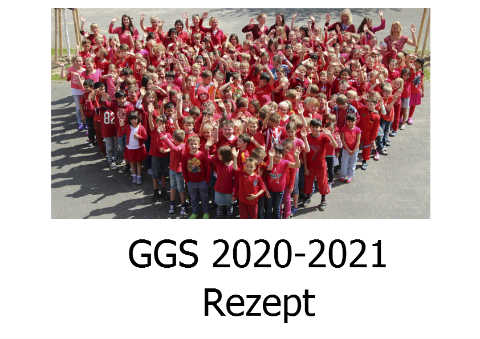
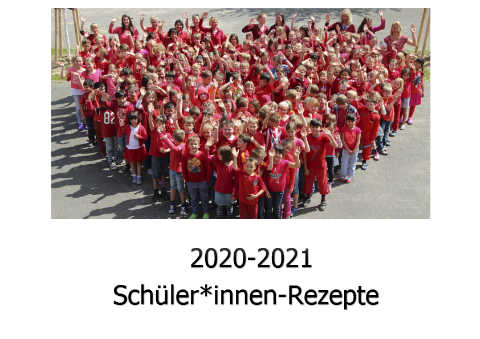
first versun 2

Changed region(s): [[0.2188, 0.826, 0.8125, 0.944], [0.25, 0.708, 0.8125, 0.7965]]

diff --git a/mobile/javascript/config.js b/mobile/javascript/config.js
@@ -136,7 +136,7 @@ btnTableOfContent:["btnBookMark"]
 };
 	
 	
-	;bookConfig.BookTemplateName="classical";bookConfig.loadingCaptionFontSize="20";bookConfig.loadingCaptionColor="#DDDDDD";bookConfig.loadingBackground="#323232";bookConfig.loadingPictureHeight="150";bookConfig.showLoadingGif="Yes";bookConfig.loadingDisplayTime="0";bookConfig.appLogoOpenWindow="Blank";bookConfig.logoHeight="40";bookConfig.logoPadding="0";bookConfig.logoTop="0";bookConfig.toolbarColor="#000000";bookConfig.iconColor="#ECF5FB";bookConfig.pageNumColor="#000000";bookConfig.iconFontColor="#C6C6C6";bookConfig.toolbarAlwaysShow="No";bookConfig.ToolBarVisible="Yes";bookConfig.formFontColor="#FFFFFF";bookConfig.formBackgroundColor="#27181A";bookConfig.ToolBarAlpha="1";bookConfig.CurlingPageCorner="Yes";bookConfig.showBookInstructionOnStart="false";bookConfig.InstructionsButtonVisible="Show";bookConfig.showInstructionOnStart="No";bookConfig.showGotoButtonsAtFirst="No";bookConfig.QRCode="Hide";bookConfig.HomeButtonVisible="Hide";bookConfig.HomeURL="%first page%";bookConfig.aboutButtonVisible="Hide";bookConfig.enablePageBack="Show";bookConfig.ShareButtonVisible="Show";shareObj = [];bookConfig.addCurrentPage="No";bookConfig.EmailButtonVisible="Show";bookConfig.btnShareWithEmailBody="{link}";bookConfig.ThumbnailsButtonVisible="Show";bookConfig.thumbnailColor="#333333";bookConfig.thumbnailAlpha="70";bookConfig.ThumbnailSize="small";bookConfig.BookMarkButtonVisible="Hide";bookConfig.TableOfContentButtonVisible="Show";bookConfig.isHideTabelOfContentNodes="yes";bookConfig.SearchButtonVisible="Hide";bookConfig.leastSearchChar="3";bookConfig.searchKeywordFontColor="#FFB000";bookConfig.searchHightlightColor="#ffff00";bookConfig.SelectTextButtonVisible="Show";bookConfig.PrintButtonVisible="Hide";bookConfig.BackgroundSoundButtonVisible="Show";bookConfig.FlipSound="Yes";bookConfig.BackgroundSoundLoop="-1";bookConfig.bgSoundVol="50";bookConfig.AutoPlayButtonVisible="Show";bookConfig.autoPlayAutoStart="No";bookConfig.autoPlayDuration="9";bookConfig.autoPlayLoopCount="1";bookConfig.ZoomButtonVisible="Show";bookConfig.maxZoomWidth="1400";bookConfig.defaultZoomWidth="1000";bookConfig.mouseWheelFlip="Yes";bookConfig.ZoomMapVisible="Hide";bookConfig.DownloadButtonVisible="Hide";bookConfig.PhoneButtonVisible="Hide";bookConfig.AnnotationButtonVisible="Hide";bookConfig.FullscreenButtonVisible="Show";bookConfig.MagnifierButtonVisible="Hide";bookConfig.bgBeginColor="#E2E2E2";bookConfig.bgEndColor="#E2E2E2";bookConfig.bgMRotation="90";bookConfig.backGroundImgURL="../files/mobile-ext/backGroundImgURL.jpg";bookConfig.backgroundPosition="stretch";bookConfig.backgroundOpacity="100";bookConfig.backgroundScene="None";bookConfig.LeftShadowWidth="90";bookConfig.LeftShadowAlpha="0.6";bookConfig.RightShadowWidth="55";bookConfig.RightShadowAlpha="0.6";bookConfig.ShowTopLeftShadow="Yes";bookConfig.pageHighlightType="magazine";bookConfig.HardPageEnable="No";bookConfig.hardCoverBorderWidth="8";bookConfig.borderColor="#572F0D";bookConfig.outerCoverBorder="Yes";bookConfig.cornerRound="8";bookConfig.leftMarginOnMobile="0";bookConfig.topMarginOnMobile="0";bookConfig.rightMarginOnMobile="0";bookConfig.bottomMarginOnMobile="0";bookConfig.pageBackgroundColor="#E8E8E8";bookConfig.flipshortcutbutton="Show";bookConfig.phoneFlipShortcutButton="Hide";bookConfig.BindingType="side";bookConfig.RightToLeft="No";bookConfig.FlipDirection="0";bookConfig.flippingTime="0.6";bookConfig.retainBookCenter="Yes";bookConfig.FlipStyle="Flip";bookConfig.autoDoublePage="Yes";bookConfig.isTheBookOpen="No";bookConfig.DoubleSinglePageButtonVisible="hide";bookConfig.thicknessWidthType="Thinner";bookConfig.thicknessColor="#ffffff";bookConfig.SingleModeBanFlipToLastPage="No";bookConfig.showThicknessOnMobile="No";bookConfig.isSingleBookFullWindowOnMobile="no";bookConfig.isStopMouseMenu="yes";bookConfig.restorePageVisible="No";bookConfig.topMargin="10";bookConfig.bottomMargin="10";bookConfig.leftMargin="10";bookConfig.rightMargin="10";bookConfig.hideMiniFullscreen="no";bookConfig.maxWidthToSmallMode="400";bookConfig.maxHeightToSmallMode="300";bookConfig.leftRightPnlShowOption="None";bookConfig.highDefinitionConversion="yes";bookConfig.LargeLogoPosition="top-left";bookConfig.LargeLogoTarget="Blank";bookConfig.isFixLogoSize="No";bookConfig.logoFixWidth="0";bookConfig.logoFixHeight="0";bookConfig.SupportOperatePageZoom="Yes";bookConfig.showHelpContentAtFirst="No";bookConfig.updateURLForPage="No";bookConfig.passwordTips="Please contact the <a href=mailto:author@sample.com><u>author</u></a> to access the web";bookConfig.OnlyOpenInIframe="No";bookConfig.OnlyOpenInIframeInfo="No reading rights";bookConfig.OpenWindow="Blank";bookConfig.showLinkHint="No";bookConfig.MidBgColor="#571262";bookConfig.useTheAliCloudChart ="no";bookConfig.totalPageCount=8;bookConfig.largePageWidth=1800;bookConfig.largePageHeight=1273;;bookConfig.securityType="1";bookConfig.CreatedTime ="210302230519";bookConfig.bookTitle="Rezept";bookConfig.bookmarkCR="5b09e8a89cffc3779d3c20c467bdfcd5ddfc4422";bookConfig.productName="Flip PDF Professional";bookConfig.homePage="http://www.flipbuilder.com";bookConfig.searchPositionJS="javascript/text_position[1].js";bookConfig.searchTextJS="javascript/search_config.js";bookConfig.normalPath="../files/mobile/";bookConfig.largePath="../files/mobile/";bookConfig.thumbPath="../files/thumb/";bookConfig.userListPath="../files/extfiles/users.js";var language = [{ language : "English",btnFirstPage:"First",btnNextPage:"Next Page",btnLastPage:"Last",btnPrePage:"Previous Page",btnDownload:"Download",btnPrint:"Print",btnSearch:"Search",btnClearSearch:"Clear",frmSearchPrompt:"Clear",btnBookMark:"Table of contents",btnHelp:"Help",btnHome:"Home",btnFullScreen:"Enable FullScreen",btnDisableFullScreen:"Disable FullScreen",btnSoundOn:"Sound On",btnSoundOff:"Sound Off",btnShareEmail:"Share",btnSocialShare:"Social Share",btnZoomIn:"Zoom In",btnZoomOut:"Zoom Out",btnDragToMove:"Move by mouse drag",btnAutoFlip:"Auto Flip",btnStopAutoFlip:"Stop Auto Flip",btnGoToHome:"Return Home",frmHelpCaption:"Help",frmHelpTip1:"Double click to zoom in or out",frmHelpTip2:"Drag the page corner to view",frmPrintCaption:"Print",frmPrintBtnCaption:"Print",frmPrintPrintAll:"Print All Pages",frmPrintPrintCurrentPage:"Print Current Page",frmPrintPrintRange:"Print Range",frmPrintExampleCaption:"Example: 2,5,8-26",frmPrintPreparePage:"Preparing Page:",frmPrintPrintFailed:"Print Failed:",pnlSearchInputInvalid:"(Minimal request length is 3 symbols)",loginCaption:"Login",loginInvalidPassword:"Not a valid password!",loginPasswordLabel:"Password:",loginBtnLogin:"Login",loginBtnCancel:"Cancel",btnThumb:"Thumbnails",lblPages:"Pages:",lblPagesFound:"Pages:",lblPageIndex:"Page",btnAbout:"About",frnAboutCaption:"About & Contact",btnSinglePage:"Single Page",btnDoublePage:"Double Page",btnSwicthLanguage:"Switch Language",tipChangeLanguage:"Please select a language below...",btnMoreOptionsLeft:"More Options",btnMoreOptionsRight:"More Options",btnFit:"Fit Window",smallModeCaption:"Click to view in fullscreen",btnAddAnnotation:"Add Annotations",btnAnnotation:"Annotations",FlipPageEditor_SaveAndExit:"Save and Exit",FlipPageEditor_Exit:"Exit",DrawToolWindow_Redo:"Redo",DrawToolWindow_Undo:"Undo",DrawToolWindow_Clear:"Clear",DrawToolWindow_Brush:"Brush",DrawToolWindow_Width:"Width",DrawToolWindow_Alpha:"Alpha",DrawToolWindow_Color:"Color",DrawToolWindow_Eraser:"Eraser",DrawToolWindow_Rectangular:"Rectangular",DrawToolWindow_Ellipse:"Ellipse",TStuff_BorderWidth:"Border Width",TStuff_BorderAlph:"Border Alpha",TStuff_BorderColor:"Border Color",DrawToolWindow_TextNote:"Text Note",AnnotMark:"Bookmarks",lastpagebtnHelp:"Last page",firstpagebtnHelp:"First page",homebtnHelp:"Return to home page",aboubtnHelp:"About",screenbtnHelp:"Open this application in full-screen mode",helpbtnHelp:"Show help",searchbtnHelp:"Search from pages",pagesbtnHelp:"Take a look at the thumbnail of this brochure",bookmarkbtnHelp:"Open Bookmarks",AnnotmarkbtnHelp:"Open Table of contents",printbtnHelp:"Print the brochure",soundbtnHelp:"Turn on or off the sound",sharebtnHelp:"Send Email to",socialSharebtnHelp:"Social Share",zoominbtnHelp:"Zoom in",downloadbtnHelp:"Downdlaod this brochure",pagemodlebtnHelp:"Switch Single and double page mode",languagebtnHelp:"Switch Lauguage",annotationbtnHelp:"Add Annotation",addbookmarkbtnHelp:"Add Bookmark",removebookmarkbtnHelp:"Remove Bookmark",updatebookmarkbtnHelp:"Update Bookmark",btnShoppingCart:"Shopping Cart",Help_ShoppingCartbtn:"Shopping Cart",Help_btnNextPage:"Next page",Help_btnPrePage:"Previous page",Help_btnAutoFlip:"Auto filp",Help_StopAutoFlip:"Stop atuo filp",btnaddbookmark:"Add",btndeletebookmark:"Delete",btnupdatebookmark:"Update",frmyourbookmarks:"Your bookmarks",frmitems:"items",DownloadFullPublication:"Full Publication",DownloadCurrentPage:"Current Page",DownloadAttachedFiles:"Attached Files",lblLink:"Link",btnCopy:"Copy Button",infCopyToClipboard:"Your browser does not support clipboard.",restorePage:"Would you like to restore previous session",tmpl_Backgoundsoundon:"Background Sound On",tmpl_Backgoundsoundoff:"Background Sound Off",tmpl_Flipsoundon:"Flip Sound On",tmpl_Flipsoundoff:"Flip Sound Off",Help_PageIndex:"The current page number",tmpl_PrintPageRanges:"PAGE RANGES",tmpl_PrintPreview:"PREVIEW",btnSelection:"Select Text",loginNameLabel:"Name:",btnGotoPage:"	Go",btnSettings:"Setting",soundSettingTitle:"Sound Setting",closeFlipSound:"Close Flip Sound",closeBackgroundSound:"Close Backgorund Sound",frmShareCaption:"Share",frmShareLinkLabel:"Link:",frmShareBtnCopy:"Copy",frmShareItemsGroupCaption:"Social Share",frmPanelTitle:"Share it",frmShareQRcode:"QRCode",TAnnoActionPropertyStuff_GotoPage:"Go to page",btnPageBack:"Backward",btnPageForward:"Forward",SelectTextCopy:"Copy Selected Text",selectCopyButton:"Copy",TStuffCart_TypeCart:"Shopping Cart",TStuffCart_DetailedQuantity:"Quantity",TStuffCart_DetailedPrice:"Price",ShappingCart_Close:"Close",ShappingCart_CheckOut:"Checkout",ShappingCart_Item:"Item",ShappingCart_Total:"Total",ShappingCart_AddCart:"Add to cart",ShappingCart_InStock:"In Stock",TStuffCart_DetailedCost:"Shipping cost",TStuffCart_DetailedTime:"Delivery time",TStuffCart_DetailedDay:"day(s)",ShappingCart_NotStock:"Not enough in stock",btnCrop:"Crop",btnDragButton:"Drag",btnFlipBook:"Flip Book",btnSlideMode:"Slide Mode",btnSinglePageMode:"Single Page Mode",btnVertical:"Vertical Mode",btnHotizontal:"Horizontal Mode",btnClose:"Close",btnDoublePage:"Double Page",btnBookStatus:"Book View",checkBoxInsert:"Insert Current Page",lblLast:"This is the last page.",lblFirst:"This is the first page.",lblFullscreen:"Click to view in fullscreen",lblName:"Name",lblPassword:"Password",lblLogin:"Login",lblCancel:"Cancel",lblNoName:"User name can not be empty.",lblNoPassword:"Password can not be empty.",lblNoCorrectLogin:"Please enter the correct user name and password.",btnVideo:"Video Gallery",btnSlideShow:"Slide Show",pnlSearchInputInvalid:"(Minimal request length is 3 symbols)",btnDragToMove:"Move by mouse drag",btnPositionToMove:"Move by mouse position",lblHelp1:"Drag the page corner to view",lblHelp2:"Double click to zoom in, out",lblCopy:"Copy",lblAddToPage:"add to page",lblPage:"Page",lblTitle:"Title",lblEdit:"Edit",lblDelete:"Delete",lblRemoveAll:"Remove All",tltCursor:"cursor",tltAddHighlight:"add highlight",tltAddTexts:"add texts",tltAddShapes:"add shapes",tltAddNotes:"add notes",tltAddImageFile:"add image file",tltAddSignature:"add signature",tltAddLine:"add line",tltAddArrow:"add arrow",tltAddRect:"add rect",tltAddEllipse:"add ellipse",lblDoubleClickToZoomIn:"Double click to zoom in.",frmShareCaption:"Share",frmShareLabel:"Share",frmShareInfo:"You can easily share this publication to social networks.Just cilck the appropriate button below.",frminsertLabel:"Insert to Site",frminsertInfo:"Use the code below to embed this publication to your website.",btnQRCode:"Click to scan QR code",btnRotateLeft:"Rotate Left",btnRotateRight:"Rotate Right",lblSelectMode:"Select view mode please.",frmDownloadPreview:"Preview",frmDownload:"Download",frmHowToUse:"How To Use",lblHelpPage1:"Move your finger to flip the book page.",lblHelpPage2:"Zoom in by using gesture or double click on the page.",lblHelpPage3:"Click on the logo to reach the official website of the company.",lblHelpPage4:"Add bookmarks, use search function and auto flip the book.",lblHelpPage5:"Switch horizontal and vertical view on mobile devices.",TTActionQuiz_PlayAgain:"Do you wanna play it again",TTActionQuiz_Ration:"Your ratio is",frmTelephone:"Telephone list",btnDialing:"Dialing",lblSelectMessage:"Please copy the the text content in the text box",btnSelectText:"Select Text",btnNote:"Annotation",btnPhoneNumber:"Telephone",btnWeCharShare:"WeChat Share",btnMagnifierIn:"Magnifying Glass",btnMagnifierOut:"Magnifier Reduction",frmShareSmallProgram:"smallProgram",btnMagnifier:"Magnifier",frmPrintPrintLimitFailed:"Sorry, you can't print the pages.",infNotSupportHtml5:"HTML5 is not supported by your current web browser, please read the book with latest verson web browser. Here we recommend you to read it with Chrome.",btnReport:"Report",btnDoubleSinglePage:"Page switch",btnDownloadPosterPrompt:"Click to download the poster",infLongPressToSavePoster:"Press and hold the mobile terminal to save the poster",infLongPressToIndentify:"Long press to identify QR code",infScanCodeToView:"Scan code to read",frmaboutcaption:"Contact",frmaboutDESCRIPTION:"Description",frmaboutAUTHOR:"Author",frmaboutADDRESS:"Address",frmaboutEMAIL:"Email",frmaboutWEBSITE:"Website",frmaboutMOBILE:"Mobile",infDeleteNote:"Do you want to delete the note?",proFullScreenWarn:"Current browser does not support full-screen,Please use Chrome for best results",btnBack:"Backs",frmVideoListTitle:"Video list",frmVideoTitle:"Video",lblConfirm:"Confirm",frmBookMark:"Bookmark",btnFullscreen:"Fullscreen",btnExitFullscreen:"Exit Fullscreen",btnMore:"More",frmPrintall:"Print All Pages",frmPrintcurrent:"Print Current Page",frmPrintRange:"Print Range",frmPrintexample:"Example: 2,3,5-10",frmPrintbtn:"Print",frmaboutcontactinformation:"Contact Information",frmSearch:"Search",frmToc:"Table Of Contents",btnTableOfContent:"Table Of Contents",lblDescription:"Title",frmLinkLabel:"Link",frmQrcodeCaption:"Scan the bottom two-dimensional code to view with mobile phone."}];;function orgt(s){ return binl2hex(core_hx(str2binl(s), s.length * chrsz));};; var pageEditor = {"setting":{"annoPlaying":"true","shoppingCartHTML":"false","shoppingCartOptinon":{"type":"PayPal","paypal":"","method":"POST","sandbox":"false","address":"","theme":"","body":"Hi xxx     I'm going to buy below product(s):      ${shopping}  Full Name","showPrice":"true","showTime":"true"}}, "pageAnnos":[[{"annotype":"com.mobiano.flipbook.pageeditor.TAnnoImage","annoId":"20212231291530","alpha":"1","mouseOverEffect":"2","borderColor":"16737792","Gifview":"-1","imgOriginalProportions":"true","imgScaleType":"false","location":{"tannoName":"image1","x":"0.047510452299505894","y":"0.025196532957065105","width":"0.9081622957050551","height":"0.6183229187663777","rotation":"0","reflection":"false","reflectionType":"0","reflectionAlpha":"0","pageWidth":"841.92","pageHeight":"595.32"},"hint":{"hintShapeColor":"0","hintShapeColor2":"8388736","hintShapeAlpha":"1","hintW":"0","hintH":"0","hintAuto":"true","hintShapeType":"2","text":""},"shadow":{"hasDropShadow":"false","shadowDistance":"4","shadowAngle":"270","shadowColor":"0","shadowAlpha":"0.6","shadowBlurX":"4","shadowBlurY":"4"},"highlightsBool":"false","imgPosition":"","popUpImage":"false","frame":"frame0","colorMatrix":"original","imgScale":"1","imgRotation":"0","imgContX":"0","imgContY":"0","imgOriginalWidth":"2000","imgOriginalHeight":"1108","url":"./files/pageConfig/ggs.png","originalURL":"./files/pageConfig/ggs.png","effect":{"effectType":"","triggerAction":"Note","duration":"1","position":"left"}},{"annotype":"com.mobiano.flipbook.pageeditor::TAnnoText","annoId":"20212231298923","alpha":"1","location":{"tannoName":"text1","x":"0.14728240212846827","y":"0.6735873143855405","width":"0.7813687761307488","height":"0.33099845461264527","rotation":"0","reflection":"false","reflectionType":"0","reflectionAlpha":"0","pageWidth":"841.92","pageHeight":"595.32"},"hint":{"hintShapeColor":"0","hintShapeColor2":"8388736","hintShapeAlpha":"1","hintW":"0","hintH":"0","hintAuto":"true","hintShapeType":"2","text":""},"shadow":{"hasDropShadow":"false","shadowDistance":"4","shadowAngle":"270","shadowColor":"0","shadowAlpha":"0.6","shadowBlurX":"4","shadowBlurY":"4"},"highlightsBool":"false","selectable":"false","auto":"false","textStr":"<TEXTFORMAT LEADING=\"5\"><P ALIGN=\"CENTER\"><FONT FACE=\"Tahoma,Arial,Verdana\" SIZE=\"66\" COLOR=\"#000000\" LETTERSPACING=\"0\" KERNING=\"0\">GGS 2020-2021</FONT></P></TEXTFORMAT><TEXTFORMAT LEADING=\"5\"><P ALIGN=\"CENTER\"><FONT FACE=\"Tahoma,Arial,Verdana\" SIZE=\"66\" COLOR=\"#000000\" LETTERSPACING=\"0\" KERNING=\"0\">Rezept</FONT></P></TEXTFORMAT>","lineHeightRation":"0.045696999999999995","formats":{"defaultFormat":{"htmlText":"<TEXTFORMAT LEADING=\"5\"><P ALIGN=\"CENTER\"><FONT FACE=\"Tahoma,Arial,Verdana\" SIZE=\"66\" COLOR=\"#000000\" LETTERSPACING=\"0\" KERNING=\"0\">GGS 2020-2021</FONT></P></TEXTFORMAT><TEXTFORMAT LEADING=\"5\"><P ALIGN=\"CENTER\"><FONT FACE=\"Tahoma,Arial,Verdana\" SIZE=\"66\" COLOR=\"#000000\" LETTERSPACING=\"0\" KERNING=\"0\">Rezept</FONT></P></TEXTFORMAT>","pageH":"595.32","pageW":"841.92"}},"background":{"alpha":"0.7","fillBg":"false","color":"16777215"}}],[],[],[],[],[],[],[]]}; bookConfig.isFlipPdf=true; var pages_information =[{pageColor:"16777215",pageIsStrech:"no"},{pageColor:"16777215",pageIsStrech:"no"},{pageColor:"16777215",pageIsStrech:"no"},{pageColor:"16777215",pageIsStrech:"no"},{pageColor:"16777215",pageIsStrech:"no"},{pageColor:"16777215",pageIsStrech:"no"},{pageColor:"16777215",pageIsStrech:"no"},{pageColor:"16777215",pageIsStrech:"no"}];	
+	;bookConfig.BookTemplateName="classical";bookConfig.loadingCaptionFontSize="20";bookConfig.loadingCaptionColor="#DDDDDD";bookConfig.loadingBackground="#323232";bookConfig.loadingPictureHeight="150";bookConfig.showLoadingGif="Yes";bookConfig.loadingDisplayTime="0";bookConfig.appLogoOpenWindow="Blank";bookConfig.logoHeight="40";bookConfig.logoPadding="0";bookConfig.logoTop="0";bookConfig.toolbarColor="#000000";bookConfig.iconColor="#ECF5FB";bookConfig.pageNumColor="#000000";bookConfig.iconFontColor="#C6C6C6";bookConfig.toolbarAlwaysShow="No";bookConfig.ToolBarVisible="Yes";bookConfig.formFontColor="#FFFFFF";bookConfig.formBackgroundColor="#27181A";bookConfig.ToolBarAlpha="1";bookConfig.CurlingPageCorner="Yes";bookConfig.showBookInstructionOnStart="false";bookConfig.InstructionsButtonVisible="Show";bookConfig.showInstructionOnStart="No";bookConfig.showGotoButtonsAtFirst="No";bookConfig.QRCode="Hide";bookConfig.HomeButtonVisible="Hide";bookConfig.HomeURL="%first page%";bookConfig.aboutButtonVisible="Hide";bookConfig.enablePageBack="Show";bookConfig.ShareButtonVisible="Show";shareObj = [];bookConfig.addCurrentPage="No";bookConfig.EmailButtonVisible="Show";bookConfig.btnShareWithEmailBody="{link}";bookConfig.ThumbnailsButtonVisible="Show";bookConfig.thumbnailColor="#333333";bookConfig.thumbnailAlpha="70";bookConfig.ThumbnailSize="small";bookConfig.BookMarkButtonVisible="Hide";bookConfig.TableOfContentButtonVisible="Show";bookConfig.isHideTabelOfContentNodes="yes";bookConfig.SearchButtonVisible="Hide";bookConfig.leastSearchChar="3";bookConfig.searchKeywordFontColor="#FFB000";bookConfig.searchHightlightColor="#ffff00";bookConfig.SelectTextButtonVisible="Show";bookConfig.PrintButtonVisible="Hide";bookConfig.BackgroundSoundButtonVisible="Show";bookConfig.FlipSound="Yes";bookConfig.BackgroundSoundLoop="-1";bookConfig.bgSoundVol="50";bookConfig.AutoPlayButtonVisible="Show";bookConfig.autoPlayAutoStart="No";bookConfig.autoPlayDuration="9";bookConfig.autoPlayLoopCount="1";bookConfig.ZoomButtonVisible="Show";bookConfig.maxZoomWidth="1400";bookConfig.defaultZoomWidth="1000";bookConfig.mouseWheelFlip="Yes";bookConfig.ZoomMapVisible="Hide";bookConfig.DownloadButtonVisible="Hide";bookConfig.PhoneButtonVisible="Hide";bookConfig.AnnotationButtonVisible="Hide";bookConfig.FullscreenButtonVisible="Show";bookConfig.MagnifierButtonVisible="Hide";bookConfig.bgBeginColor="#E2E2E2";bookConfig.bgEndColor="#E2E2E2";bookConfig.bgMRotation="90";bookConfig.backGroundImgURL="../files/mobile-ext/backGroundImgURL.jpg";bookConfig.backgroundPosition="stretch";bookConfig.backgroundOpacity="100";bookConfig.backgroundScene="None";bookConfig.LeftShadowWidth="90";bookConfig.LeftShadowAlpha="0.6";bookConfig.RightShadowWidth="55";bookConfig.RightShadowAlpha="0.6";bookConfig.ShowTopLeftShadow="Yes";bookConfig.pageHighlightType="magazine";bookConfig.HardPageEnable="No";bookConfig.hardCoverBorderWidth="8";bookConfig.borderColor="#572F0D";bookConfig.outerCoverBorder="Yes";bookConfig.cornerRound="8";bookConfig.leftMarginOnMobile="0";bookConfig.topMarginOnMobile="0";bookConfig.rightMarginOnMobile="0";bookConfig.bottomMarginOnMobile="0";bookConfig.pageBackgroundColor="#E8E8E8";bookConfig.flipshortcutbutton="Show";bookConfig.phoneFlipShortcutButton="Hide";bookConfig.BindingType="side";bookConfig.RightToLeft="No";bookConfig.FlipDirection="0";bookConfig.flippingTime="0.6";bookConfig.retainBookCenter="Yes";bookConfig.FlipStyle="Flip";bookConfig.autoDoublePage="Yes";bookConfig.isTheBookOpen="No";bookConfig.DoubleSinglePageButtonVisible="hide";bookConfig.thicknessWidthType="Thinner";bookConfig.thicknessColor="#ffffff";bookConfig.SingleModeBanFlipToLastPage="No";bookConfig.showThicknessOnMobile="No";bookConfig.isSingleBookFullWindowOnMobile="no";bookConfig.isStopMouseMenu="yes";bookConfig.restorePageVisible="No";bookConfig.topMargin="10";bookConfig.bottomMargin="10";bookConfig.leftMargin="10";bookConfig.rightMargin="10";bookConfig.hideMiniFullscreen="no";bookConfig.maxWidthToSmallMode="400";bookConfig.maxHeightToSmallMode="300";bookConfig.leftRightPnlShowOption="None";bookConfig.highDefinitionConversion="yes";bookConfig.LargeLogoPosition="top-left";bookConfig.LargeLogoTarget="Blank";bookConfig.isFixLogoSize="No";bookConfig.logoFixWidth="0";bookConfig.logoFixHeight="0";bookConfig.SupportOperatePageZoom="Yes";bookConfig.showHelpContentAtFirst="No";bookConfig.updateURLForPage="No";bookConfig.passwordTips="Please contact the <a href=mailto:author@sample.com><u>author</u></a> to access the web";bookConfig.OnlyOpenInIframe="No";bookConfig.OnlyOpenInIframeInfo="No reading rights";bookConfig.OpenWindow="Blank";bookConfig.showLinkHint="No";bookConfig.MidBgColor="#689906";bookConfig.useTheAliCloudChart ="no";bookConfig.totalPageCount=8;bookConfig.largePageWidth=1800;bookConfig.largePageHeight=1273;;bookConfig.securityType="1";bookConfig.CreatedTime ="210302231901";bookConfig.bookTitle="Rezept";bookConfig.bookmarkCR="b1bc2acc8d758eddcd00a3dac826436e5f51627e";bookConfig.productName="Flip PDF Professional";bookConfig.homePage="http://www.flipbuilder.com";bookConfig.searchPositionJS="javascript/text_position[1].js";bookConfig.searchTextJS="javascript/search_config.js";bookConfig.normalPath="../files/mobile/";bookConfig.largePath="../files/mobile/";bookConfig.thumbPath="../files/thumb/";bookConfig.userListPath="../files/extfiles/users.js";var language = [{ language : "English",btnFirstPage:"First",btnNextPage:"Next Page",btnLastPage:"Last",btnPrePage:"Previous Page",btnDownload:"Download",btnPrint:"Print",btnSearch:"Search",btnClearSearch:"Clear",frmSearchPrompt:"Clear",btnBookMark:"Table of contents",btnHelp:"Help",btnHome:"Home",btnFullScreen:"Enable FullScreen",btnDisableFullScreen:"Disable FullScreen",btnSoundOn:"Sound On",btnSoundOff:"Sound Off",btnShareEmail:"Share",btnSocialShare:"Social Share",btnZoomIn:"Zoom In",btnZoomOut:"Zoom Out",btnDragToMove:"Move by mouse drag",btnAutoFlip:"Auto Flip",btnStopAutoFlip:"Stop Auto Flip",btnGoToHome:"Return Home",frmHelpCaption:"Help",frmHelpTip1:"Double click to zoom in or out",frmHelpTip2:"Drag the page corner to view",frmPrintCaption:"Print",frmPrintBtnCaption:"Print",frmPrintPrintAll:"Print All Pages",frmPrintPrintCurrentPage:"Print Current Page",frmPrintPrintRange:"Print Range",frmPrintExampleCaption:"Example: 2,5,8-26",frmPrintPreparePage:"Preparing Page:",frmPrintPrintFailed:"Print Failed:",pnlSearchInputInvalid:"(Minimal request length is 3 symbols)",loginCaption:"Login",loginInvalidPassword:"Not a valid password!",loginPasswordLabel:"Password:",loginBtnLogin:"Login",loginBtnCancel:"Cancel",btnThumb:"Thumbnails",lblPages:"Pages:",lblPagesFound:"Pages:",lblPageIndex:"Page",btnAbout:"About",frnAboutCaption:"About & Contact",btnSinglePage:"Single Page",btnDoublePage:"Double Page",btnSwicthLanguage:"Switch Language",tipChangeLanguage:"Please select a language below...",btnMoreOptionsLeft:"More Options",btnMoreOptionsRight:"More Options",btnFit:"Fit Window",smallModeCaption:"Click to view in fullscreen",btnAddAnnotation:"Add Annotations",btnAnnotation:"Annotations",FlipPageEditor_SaveAndExit:"Save and Exit",FlipPageEditor_Exit:"Exit",DrawToolWindow_Redo:"Redo",DrawToolWindow_Undo:"Undo",DrawToolWindow_Clear:"Clear",DrawToolWindow_Brush:"Brush",DrawToolWindow_Width:"Width",DrawToolWindow_Alpha:"Alpha",DrawToolWindow_Color:"Color",DrawToolWindow_Eraser:"Eraser",DrawToolWindow_Rectangular:"Rectangular",DrawToolWindow_Ellipse:"Ellipse",TStuff_BorderWidth:"Border Width",TStuff_BorderAlph:"Border Alpha",TStuff_BorderColor:"Border Color",DrawToolWindow_TextNote:"Text Note",AnnotMark:"Bookmarks",lastpagebtnHelp:"Last page",firstpagebtnHelp:"First page",homebtnHelp:"Return to home page",aboubtnHelp:"About",screenbtnHelp:"Open this application in full-screen mode",helpbtnHelp:"Show help",searchbtnHelp:"Search from pages",pagesbtnHelp:"Take a look at the thumbnail of this brochure",bookmarkbtnHelp:"Open Bookmarks",AnnotmarkbtnHelp:"Open Table of contents",printbtnHelp:"Print the brochure",soundbtnHelp:"Turn on or off the sound",sharebtnHelp:"Send Email to",socialSharebtnHelp:"Social Share",zoominbtnHelp:"Zoom in",downloadbtnHelp:"Downdlaod this brochure",pagemodlebtnHelp:"Switch Single and double page mode",languagebtnHelp:"Switch Lauguage",annotationbtnHelp:"Add Annotation",addbookmarkbtnHelp:"Add Bookmark",removebookmarkbtnHelp:"Remove Bookmark",updatebookmarkbtnHelp:"Update Bookmark",btnShoppingCart:"Shopping Cart",Help_ShoppingCartbtn:"Shopping Cart",Help_btnNextPage:"Next page",Help_btnPrePage:"Previous page",Help_btnAutoFlip:"Auto filp",Help_StopAutoFlip:"Stop atuo filp",btnaddbookmark:"Add",btndeletebookmark:"Delete",btnupdatebookmark:"Update",frmyourbookmarks:"Your bookmarks",frmitems:"items",DownloadFullPublication:"Full Publication",DownloadCurrentPage:"Current Page",DownloadAttachedFiles:"Attached Files",lblLink:"Link",btnCopy:"Copy Button",infCopyToClipboard:"Your browser does not support clipboard.",restorePage:"Would you like to restore previous session",tmpl_Backgoundsoundon:"Background Sound On",tmpl_Backgoundsoundoff:"Background Sound Off",tmpl_Flipsoundon:"Flip Sound On",tmpl_Flipsoundoff:"Flip Sound Off",Help_PageIndex:"The current page number",tmpl_PrintPageRanges:"PAGE RANGES",tmpl_PrintPreview:"PREVIEW",btnSelection:"Select Text",loginNameLabel:"Name:",btnGotoPage:"	Go",btnSettings:"Setting",soundSettingTitle:"Sound Setting",closeFlipSound:"Close Flip Sound",closeBackgroundSound:"Close Backgorund Sound",frmShareCaption:"Share",frmShareLinkLabel:"Link:",frmShareBtnCopy:"Copy",frmShareItemsGroupCaption:"Social Share",frmPanelTitle:"Share it",frmShareQRcode:"QRCode",TAnnoActionPropertyStuff_GotoPage:"Go to page",btnPageBack:"Backward",btnPageForward:"Forward",SelectTextCopy:"Copy Selected Text",selectCopyButton:"Copy",TStuffCart_TypeCart:"Shopping Cart",TStuffCart_DetailedQuantity:"Quantity",TStuffCart_DetailedPrice:"Price",ShappingCart_Close:"Close",ShappingCart_CheckOut:"Checkout",ShappingCart_Item:"Item",ShappingCart_Total:"Total",ShappingCart_AddCart:"Add to cart",ShappingCart_InStock:"In Stock",TStuffCart_DetailedCost:"Shipping cost",TStuffCart_DetailedTime:"Delivery time",TStuffCart_DetailedDay:"day(s)",ShappingCart_NotStock:"Not enough in stock",btnCrop:"Crop",btnDragButton:"Drag",btnFlipBook:"Flip Book",btnSlideMode:"Slide Mode",btnSinglePageMode:"Single Page Mode",btnVertical:"Vertical Mode",btnHotizontal:"Horizontal Mode",btnClose:"Close",btnDoublePage:"Double Page",btnBookStatus:"Book View",checkBoxInsert:"Insert Current Page",lblLast:"This is the last page.",lblFirst:"This is the first page.",lblFullscreen:"Click to view in fullscreen",lblName:"Name",lblPassword:"Password",lblLogin:"Login",lblCancel:"Cancel",lblNoName:"User name can not be empty.",lblNoPassword:"Password can not be empty.",lblNoCorrectLogin:"Please enter the correct user name and password.",btnVideo:"Video Gallery",btnSlideShow:"Slide Show",pnlSearchInputInvalid:"(Minimal request length is 3 symbols)",btnDragToMove:"Move by mouse drag",btnPositionToMove:"Move by mouse position",lblHelp1:"Drag the page corner to view",lblHelp2:"Double click to zoom in, out",lblCopy:"Copy",lblAddToPage:"add to page",lblPage:"Page",lblTitle:"Title",lblEdit:"Edit",lblDelete:"Delete",lblRemoveAll:"Remove All",tltCursor:"cursor",tltAddHighlight:"add highlight",tltAddTexts:"add texts",tltAddShapes:"add shapes",tltAddNotes:"add notes",tltAddImageFile:"add image file",tltAddSignature:"add signature",tltAddLine:"add line",tltAddArrow:"add arrow",tltAddRect:"add rect",tltAddEllipse:"add ellipse",lblDoubleClickToZoomIn:"Double click to zoom in.",frmShareCaption:"Share",frmShareLabel:"Share",frmShareInfo:"You can easily share this publication to social networks.Just cilck the appropriate button below.",frminsertLabel:"Insert to Site",frminsertInfo:"Use the code below to embed this publication to your website.",btnQRCode:"Click to scan QR code",btnRotateLeft:"Rotate Left",btnRotateRight:"Rotate Right",lblSelectMode:"Select view mode please.",frmDownloadPreview:"Preview",frmDownload:"Download",frmHowToUse:"How To Use",lblHelpPage1:"Move your finger to flip the book page.",lblHelpPage2:"Zoom in by using gesture or double click on the page.",lblHelpPage3:"Click on the logo to reach the official website of the company.",lblHelpPage4:"Add bookmarks, use search function and auto flip the book.",lblHelpPage5:"Switch horizontal and vertical view on mobile devices.",TTActionQuiz_PlayAgain:"Do you wanna play it again",TTActionQuiz_Ration:"Your ratio is",frmTelephone:"Telephone list",btnDialing:"Dialing",lblSelectMessage:"Please copy the the text content in the text box",btnSelectText:"Select Text",btnNote:"Annotation",btnPhoneNumber:"Telephone",btnWeCharShare:"WeChat Share",btnMagnifierIn:"Magnifying Glass",btnMagnifierOut:"Magnifier Reduction",frmShareSmallProgram:"smallProgram",btnMagnifier:"Magnifier",frmPrintPrintLimitFailed:"Sorry, you can't print the pages.",infNotSupportHtml5:"HTML5 is not supported by your current web browser, please read the book with latest verson web browser. Here we recommend you to read it with Chrome.",btnReport:"Report",btnDoubleSinglePage:"Page switch",btnDownloadPosterPrompt:"Click to download the poster",infLongPressToSavePoster:"Press and hold the mobile terminal to save the poster",infLongPressToIndentify:"Long press to identify QR code",infScanCodeToView:"Scan code to read",frmaboutcaption:"Contact",frmaboutDESCRIPTION:"Description",frmaboutAUTHOR:"Author",frmaboutADDRESS:"Address",frmaboutEMAIL:"Email",frmaboutWEBSITE:"Website",frmaboutMOBILE:"Mobile",infDeleteNote:"Do you want to delete the note?",proFullScreenWarn:"Current browser does not support full-screen,Please use Chrome for best results",btnBack:"Backs",frmVideoListTitle:"Video list",frmVideoTitle:"Video",lblConfirm:"Confirm",frmBookMark:"Bookmark",btnFullscreen:"Fullscreen",btnExitFullscreen:"Exit Fullscreen",btnMore:"More",frmPrintall:"Print All Pages",frmPrintcurrent:"Print Current Page",frmPrintRange:"Print Range",frmPrintexample:"Example: 2,3,5-10",frmPrintbtn:"Print",frmaboutcontactinformation:"Contact Information",frmSearch:"Search",frmToc:"Table Of Contents",btnTableOfContent:"Table Of Contents",lblDescription:"Title",frmLinkLabel:"Link",frmQrcodeCaption:"Scan the bottom two-dimensional code to view with mobile phone."}];;function orgt(s){ return binl2hex(core_hx(str2binl(s), s.length * chrsz));};; var pageEditor = {"setting":{"annoPlaying":"true","shoppingCartHTML":"false","shoppingCartOptinon":{"type":"PayPal","paypal":"","method":"POST","sandbox":"false","address":"","theme":"","body":"Hi xxx     I'm going to buy below product(s):      ${shopping}  Full Name","showPrice":"true","showTime":"true"}}, "pageAnnos":[[{"annotype":"com.mobiano.flipbook.pageeditor.TAnnoImage","annoId":"202122312489122","alpha":"1","mouseOverEffect":"2","borderColor":"16737792","Gifview":"-1","imgOriginalProportions":"true","imgScaleType":"false","location":{"tannoName":"image1","x":"0.047510452299505894","y":"0.025196532957065105","width":"0.9081622957050551","height":"0.6183229187663777","rotation":"0","reflection":"false","reflectionType":"0","reflectionAlpha":"0","pageWidth":"841.92","pageHeight":"595.32"},"hint":{"hintShapeColor":"0","hintShapeColor2":"8388736","hintShapeAlpha":"1","hintW":"0","hintH":"0","hintAuto":"true","hintShapeType":"2","text":""},"shadow":{"hasDropShadow":"false","shadowDistance":"4","shadowAngle":"270","shadowColor":"0","shadowAlpha":"0.6","shadowBlurX":"4","shadowBlurY":"4"},"highlightsBool":"false","imgPosition":"","popUpImage":"false","frame":"frame0","colorMatrix":"original","imgScale":"1","imgRotation":"0","imgContX":"0","imgContY":"0","imgOriginalWidth":"2000","imgOriginalHeight":"1108","url":"./files/pageConfig/ggs.png","originalURL":"./files/pageConfig/ggs.png","effect":{"effectType":"","triggerAction":"Note","duration":"1","position":"left"}},{"annotype":"com.mobiano.flipbook.pageeditor::TAnnoDynamicText","annoId":"202122312485417","alpha":"1","HRate":"0","location":{"tannoName":"text1","x":"0.0700779171417712","y":"0.6735873143855405","width":"0.8845852337514254","height":"0.33251024659006917","rotation":"0","reflection":"false","reflectionType":"0","reflectionAlpha":"0","pageWidth":"841.92","pageHeight":"595.32"},"hint":{"hintShapeColor":"0","hintShapeColor2":"8388736","hintShapeAlpha":"1","hintW":"0","hintH":"0","hintAuto":"true","hintShapeType":"2","text":""},"shadow":{"hasDropShadow":"false","shadowDistance":"4","shadowAngle":"0","shadowColor":"0","shadowAlpha":"0.6","shadowBlurX":"4","shadowBlurY":"4"},"highlightsBool":"false","strText":"<TEXTFORMAT LEADING=\"5\"><P ALIGN=\"CENTER\"><FONT FACE=\"Tahoma,Arial,Verdana\" SIZE=\"66\" COLOR=\"#000000\" LETTERSPACING=\"0\" KERNING=\"0\"> <FONT SIZE=\"46\">2020-2021 </FONT></FONT></P></TEXTFORMAT><TEXTFORMAT LEADING=\"5\"><P ALIGN=\"CENTER\"><FONT FACE=\"Tahoma,Arial,Verdana\" SIZE=\"46\" COLOR=\"#000000\" LETTERSPACING=\"0\" KERNING=\"0\">Schüler*innen-Rezepte<FONT SIZE=\"66\"></FONT></FONT></P></TEXTFORMAT>","textStr":"<TEXTFORMAT LEADING=\"5\"><P ALIGN=\"CENTER\"><FONT FACE=\"Tahoma,Arial,Verdana\" SIZE=\"66\" COLOR=\"#000000\" LETTERSPACING=\"0\" KERNING=\"0\"> <FONT SIZE=\"46\">2020-2021 </FONT></FONT></P></TEXTFORMAT><TEXTFORMAT LEADING=\"5\"><P ALIGN=\"CENTER\"><FONT FACE=\"Tahoma,Arial,Verdana\" SIZE=\"46\" COLOR=\"#000000\" LETTERSPACING=\"0\" KERNING=\"0\">Schüler*innen-Rezepte<FONT SIZE=\"66\"></FONT></FONT></P></TEXTFORMAT>","format":{"htmlText":"<TEXTFORMAT LEADING=\"5\"><P ALIGN=\"CENTER\"><FONT FACE=\"Tahoma,Arial,Verdana\" SIZE=\"66\" COLOR=\"#000000\" LETTERSPACING=\"0\" KERNING=\"0\"> <FONT SIZE=\"46\">2020-2021 </FONT></FONT></P></TEXTFORMAT><TEXTFORMAT LEADING=\"5\"><P ALIGN=\"CENTER\"><FONT FACE=\"Tahoma,Arial,Verdana\" SIZE=\"46\" COLOR=\"#000000\" LETTERSPACING=\"0\" KERNING=\"0\">Schüler*innen-Rezepte<FONT SIZE=\"66\"></FONT></FONT></P></TEXTFORMAT>","pageH":"595.32","pageW":"841.92","font":"Tahoma","size":"12","color":"0","bold":"false","italic":"false","align":"left"},"repeat":"true","moveSpeed":"5.76"}],[],[],[],[],[],[],[]]}; bookConfig.isFlipPdf=true; var pages_information =[{pageColor:"16777215",pageIsStrech:"no"},{pageColor:"16777215",pageIsStrech:"no"},{pageColor:"16777215",pageIsStrech:"no"},{pageColor:"16777215",pageIsStrech:"no"},{pageColor:"16777215",pageIsStrech:"no"},{pageColor:"16777215",pageIsStrech:"no"},{pageColor:"16777215",pageIsStrech:"no"},{pageColor:"16777215",pageIsStrech:"no"}];	
 	if(language&&language.length>0&&language[0]&&language[0].language){
 		bookConfig.language=language[0].language;
 	}
